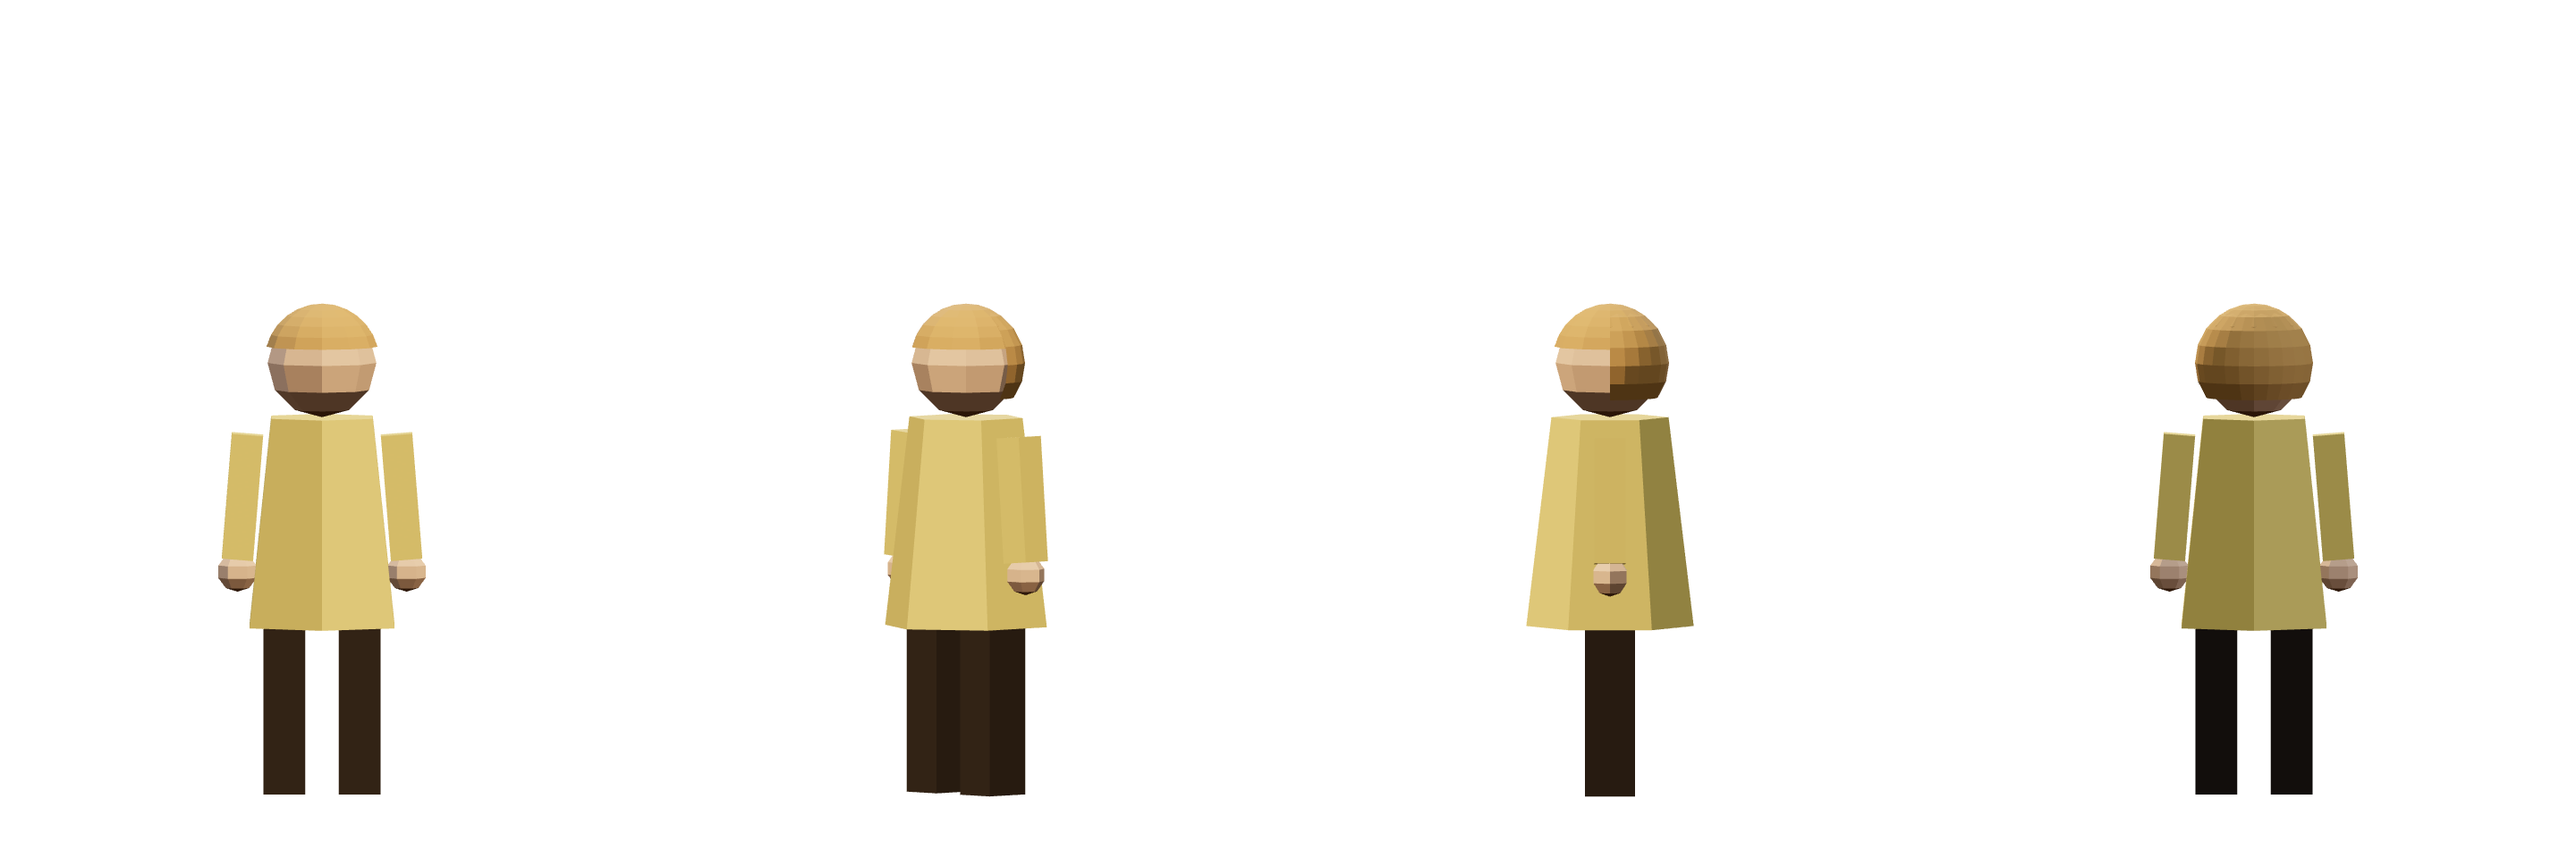
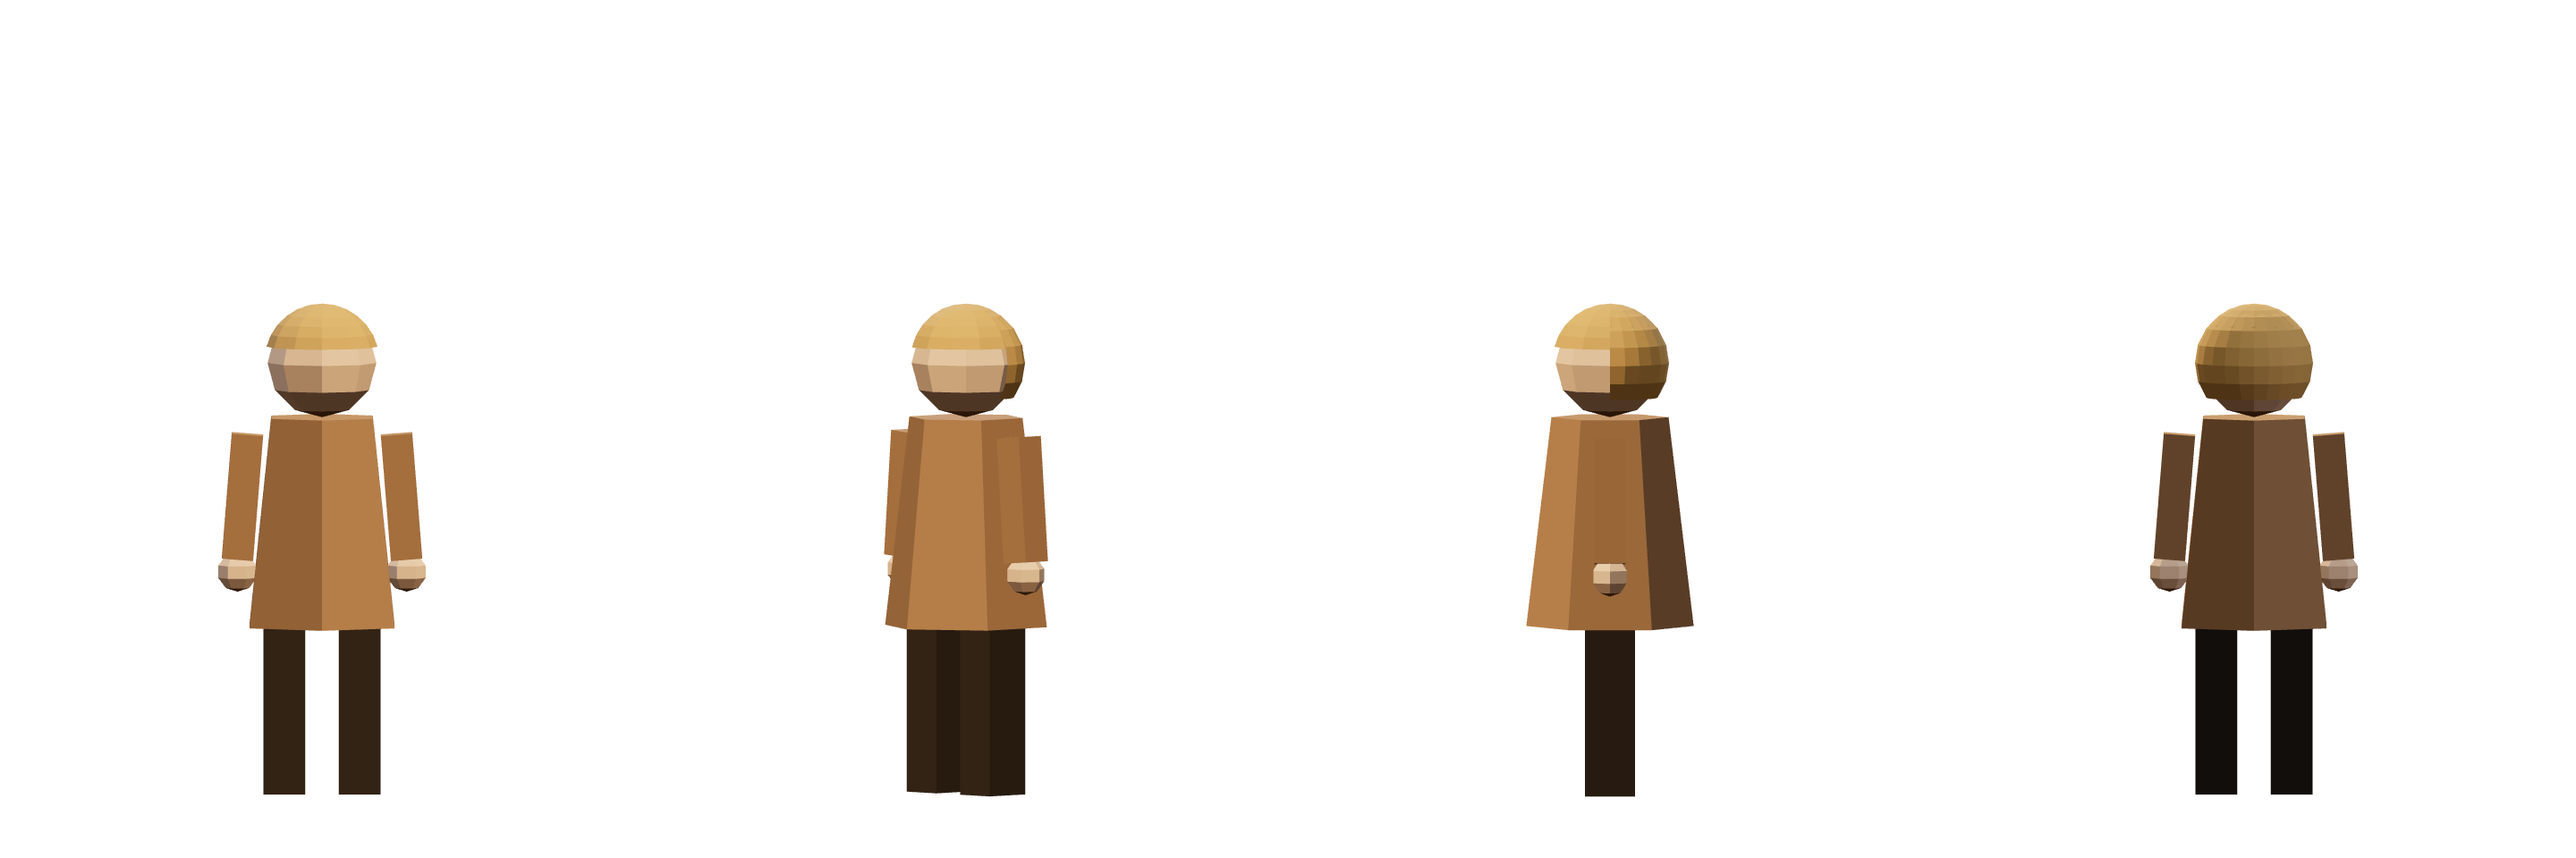
Brown villagers, straight radial straw, compact log roofs
- Plain villagers wear browns (workers keep their yellows)
- Tier-1 house roof no longer tilts; straw strands run straight down from
  the peak of every tier-1 roof, course lines unchanged
- Tier-2 roofs are compact rounded logs from ridge to eave, like the palisade
- Character sheet re-rendered

diff --git a/index.html b/index.html
@@ -540,28 +540,31 @@ const roofGrit = sh => {
 M.roofBlue.onBeforeCompile = roofGrit;
 // tier 1: straw thatch - fine strands running down the slope in ragged bundles, with darker gaps between courses
 M.thatchOld.onBeforeCompile = sh => {
-  sh.vertexShader = 'varying vec3 vSP;\n' + sh.vertexShader.replace('#include <begin_vertex>', `#include <begin_vertex>
-    vSP = (modelMatrix * vec4(transformed, 1.0)).xyz;`);
-  sh.fragmentShader = `varying vec3 vSP;
+  sh.vertexShader = 'varying vec3 vSP; varying vec3 vSO;\n' + sh.vertexShader.replace('#include <begin_vertex>', `#include <begin_vertex>
+    vSP = (modelMatrix * vec4(transformed, 1.0)).xyz; vSO = transformed;`);
+  sh.fragmentShader = `varying vec3 vSP; varying vec3 vSO;
     float sh1(vec2 p) { return fract(sin(dot(p, vec2(12.9898, 78.233))) * 43758.5453); }
   ` + sh.fragmentShader.replace('#include <color_fragment>', `#include <color_fragment>
-    float u = (vSP.x + vSP.z) * 38.0, row = vSP.y * 4.5, cf = fract(row);
+    float u = atan(vSO.z, vSO.x) * 25.46, row = vSP.y * 4.5, cf = fract(row);   // ~160 strands round the peak, running straight down each face
     float strand = sh1(vec2(floor(u), floor(row)));
     float ragged = sh1(vec2(floor(u * .25), floor(row) + 3.0)) * .25;
     diffuseColor.rgb *= (.78 + .32 * strand) * mix(.62, 1.0, smoothstep(ragged, ragged + .25, cf));`);
 };
-// tier 2: roofs of split logs laid in rounded courses, with grain along each log
-M.thatch.onBeforeCompile = sh => {
-  sh.vertexShader = 'varying vec3 vLP;\n' + sh.vertexShader.replace('#include <begin_vertex>', `#include <begin_vertex>
-    vLP = (modelMatrix * vec4(transformed, 1.0)).xyz;`);
-  sh.fragmentShader = `varying vec3 vLP;
+// tier 2: compact rounded logs laid side by side from the ridge down to the eaves (like the palisade);
+// pyramids space them by angle round the peak, gable slabs (M.logGable) by position along the ridge
+const logRoof = gable => sh => {
+  sh.vertexShader = 'varying vec3 vLO;\n' + sh.vertexShader.replace('#include <begin_vertex>', `#include <begin_vertex>
+    vLO = transformed;`);
+  sh.fragmentShader = `varying vec3 vLO;
     float lh(vec2 p) { return fract(sin(dot(p, vec2(41.3, 289.1))) * 15731.7); }
   ` + sh.fragmentShader.replace('#include <color_fragment>', `#include <color_fragment>
-    float row = vLP.y * 6.0, cf = fract(row), along = (vLP.x + vLP.z) * 2.0;
-    float rnd = sin(cf * 3.14159), grain = lh(vec2(floor(along * 8.0), floor(row)));
-    float log_ = .85 + .25 * lh(vec2(floor(row), floor(along * .6)));
-    diffuseColor.rgb *= log_ * (.45 + .6 * rnd) * (.9 + .15 * grain);`);
+    float u = ${gable ? 'vLO.x * 11.0' : 'atan(vLO.z, vLO.x) * 14.3'}, f = fract(u), id = floor(u);
+    float rnd = sqrt(max(0.0, sin(f * 3.14159)));
+    float along = ${gable ? 'vLO.z' : 'length(vLO.xz)'} * 7.0;
+    diffuseColor.rgb *= (.82 + .3 * lh(vec2(id, 1.0))) * (.38 + .7 * rnd) * (.92 + .12 * lh(vec2(id, floor(along))));`);
 };
+M.thatch.onBeforeCompile = logRoof(false); M.thatch.customProgramCacheKey = () => 'logroof:peak';   // both variants share one function source
+M.logGable = M.thatch.clone(); M.logGable.onBeforeCompile = logRoof(true); M.logGable.customProgramCacheKey = () => 'logroof:gable';
 // grit for wood (grain streaks, knots of darker colour) and rock (mottling and specks); composes with any shader the material already has
 const GRIT_NOISE = `
   float gh2(vec2 p) { return fract(sin(dot(p, vec2(127.1, 311.7))) * 43758.5453); }
@@ -867,7 +870,7 @@ function makeHouse(tier, plinth) {
     const w = box(1.25, .85, 1.05, M.mud, 0, .5, 0); w.rotation.z = .035; g.add(w);
     for (const sx of [-1, 1]) g.add(box(.09, .9, .09, M.rough, sx * .62, .5, .52));
     g.add(box(1.3, .08, .08, M.rough, 0, .92, .53));
-    const r = pyramid(1.12, 1.15, .95, M.thatchOld, 1.47); r.rotation.z = -.05; g.add(r);
+    g.add(pyramid(1.12, 1.15, .95, M.thatchOld, 1.47));
     g.add(box(.34, .58, .05, M.timber, -.22, .38, .54));
     g.add(box(.18, .14, .04, M.glow, .3, .62, .54));
     for (let n = 0; n < 4; n++) { const p = box(.05, .35 + hash(n, 3) * .15, .05, M.rough, .9, .2, -.45 + n * .3); p.rotation.x = (hash(n, 9) - .5) * .4; g.add(p); }
@@ -878,7 +881,7 @@ function makeHouse(tier, plinth) {
     g.add(box(.2, .18, .04, M.glow, .35, .52, .56));
     g.add(prism(1.4, 1.1, .7, M.daub, 0, .84, 0));
     const sl = Math.atan2(.7, .55), len = Math.hypot(.7, .55) + .2;
-    for (const sz of [-1, 1]) { const r = box(1.6, .1, len, M.thatch, 0, .84 + .35, sz * .35); r.rotation.x = sz * sl; g.add(r); }
+    for (const sz of [-1, 1]) { const r = box(1.6, .1, len, M.logGable, 0, .84 + .35, sz * .35); r.rotation.x = sz * sl; g.add(r); }
     g.add(box(.18, .45, .18, M.stone, .45, 1.45, -.25));
   } else {                     // town house: stone ground floor, plaster upper floor, blue gable roof
     g.add(box(1.4, .75, 1.2, M.stone2, 0, .375, 0));
@@ -1665,8 +1668,8 @@ function paintWall(a, b) {
 }
 
 // ---------- villagers ----------
-// colour code: villagers wear yellows, soldiers blue, raiders red
-const tunics = ['#c9a227', '#b8892f', '#d4b45a', '#a87d2a', '#c49a3c', '#9c8a3a'].map(mat);
+// colour code: plain villagers brown, workers yellows, soldiers blue, raiders red
+const tunics = ['#7a5434', '#8a6240', '#6b4a2e', '#956b44', '#7f5a3a', '#5f4229'].map(mat);   // plain villagers: homespun browns
 const hairs = ['#3a2716', '#5a3a1e', '#2a221c', '#8a5a2e', '#b8894a', '#6b6b66'].map(mat);
 const skin = mat('#d6a982'), hatM = mat('#6b5236'), legM = mat('#3a2e22');
 // solid things inside a farm plot (hut, hay, scarecrow, barn, stooks): [x, z, half-width, half-depth] from the plot centre

diff --git a/CLAUDE.md b/CLAUDE.md
@@ -20,7 +20,7 @@ The whole game is currently one self-contained file: `index.html` (~165 KB, thre
 
 ## Style rules (from Jack)
 - UI text is minimal: a few words, no explanations (hints like "Pick a spot", "Occupied", "Need [wood]5"; banners "Night 2 · 8 raiders"; log lines "<b>Cottage</b> ready"). Keep new text in this style.
-- Colour code: town = blue (flags, soldiers, tier-3 roofs), raiders = red, villagers = yellows. Roofs by tier: tier 1 straw thatch (`M.thatchOld`, strand shader), tier 2 brown split logs (`M.thatch`, rounded log-course shader), tier 3 blue tiles (`M.roofBlue`, `roofGrit`). Tier 1 buildings have no stone base and no dirt splat (they stand on grass); the stone base (`plinth`) appears from tier 2.
+- Colour code: town = blue (flags, soldiers, tier-3 roofs), raiders = red, villagers = yellows. Roofs by tier: tier 1 straw thatch (`M.thatchOld`: strands radiate from the peak by object-space angle, level course lines by world y), tier 2 compact rounded logs from ridge to eave like the palisade (`logRoof`: `M.thatch` for pyramids by angle, `M.logGable` for gable slabs by local x; each has its own `customProgramCacheKey`), tier 3 blue tiles (`M.roofBlue`, `roofGrit`). Tier 1 buildings have no stone base and no dirt splat (they stand on grass); the stone base (`plinth`) appears from tier 2.
 - Medieval look over clean/modern: crooked timbers, daub, thatch, small shuttered windows.
 
 ## Recent model notes
@@ -80,7 +80,7 @@ Roof colours: tier 3 roofs use `M.roofBlue` (blue is the town's colour, red the 
 - **Instancing**: trees (instanceColor), clutter (320 tufts, pebbles, bushes) hidden on occupied/path cells. Lone trees within 12 m of the castle, forest 12–18 m.
 - **Lights**: pool of 4 PointLights shared by night lamps; gradient sky dome.
 - **Sprites**: HP/progress bars (`fg.center.x=.5/f` trick); floating SVG icon pop-ups for income (`floatRes`).
-- **People**: `makePerson` → arms on pivots (angle 0 = hanging, −1.57 = forward, −3 = overhead). Tools come from `makeTool(kind)` and are parented to the hand (`arms[1]`; bow on `arms[0]`); `giveTool(v,kind)`. Task poses are all one-handed (the single-segment arms can't both reach one handle; the free arm steadies): axe overhead chop, pick overhead strike, hoe bent low, hammer; log on right shoulder with the hand resting on it, stone held at chest in both hands. Axe and hoe heads sit on the local −z side so they lead the swing / face the soil. Bow is a gentle C (arc segments). Colour code: villagers wear yellows (`tunics`), soldiers blue (`guardTunic`), every raider the same red (`raiderRed`); the town's flags (`M.flag`) are blue. Everyone has short hair (`makeHair`, `hairs` palette); some plain villagers add a soft cloth cap. Headgear via `makeHelm`: villager archers on posts a bright steel round helm with a blue band and nose guard (`soldier`; `kettle` also exists), raider iron dome with nose and cheek guards, captain adds a red crest, raider archer a dark rounded hood. Outfits via `OUTFIT`/`dress()`: lumberjack yellow/brown checked shirt (`plaidMat` canvas texture) + green wool cap with feather, mason khaki + grey cloth bonnet + curved canvas apron with a leather waist band, farmer straw yellow + straw hat, builder amber smock + brown felt hat + tool belt. Renders of all of them: `design/characters/`.
+- **People**: `makePerson` → arms on pivots (angle 0 = hanging, −1.57 = forward, −3 = overhead). Tools come from `makeTool(kind)` and are parented to the hand (`arms[1]`; bow on `arms[0]`); `giveTool(v,kind)`. Task poses are all one-handed (the single-segment arms can't both reach one handle; the free arm steadies): axe overhead chop, pick overhead strike, hoe bent low, hammer; log on right shoulder with the hand resting on it, stone held at chest in both hands. Axe and hoe heads sit on the local −z side so they lead the swing / face the soil. Bow is a gentle C (arc segments). Colour code: plain villagers wear browns (`tunics`), workers yellows (job outfits), soldiers blue (`guardTunic`), every raider the same red (`raiderRed`); the town's flags (`M.flag`) are blue. Everyone has short hair (`makeHair`, `hairs` palette); some plain villagers add a soft cloth cap. Headgear via `makeHelm`: villager archers on posts a bright steel round helm with a blue band and nose guard (`soldier`; `kettle` also exists), raider iron dome with nose and cheek guards, captain adds a red crest, raider archer a dark rounded hood. Outfits via `OUTFIT`/`dress()`: lumberjack yellow/brown checked shirt (`plaidMat` canvas texture) + green wool cap with feather, mason khaki + grey cloth bonnet + curved canvas apron with a leather waist band, farmer straw yellow + straw hat, builder amber smock + brown felt hat + tool belt. Renders of all of them: `design/characters/`.
 - **Ambient**: bird flocks every 45–95 s (scale 0.55, half circle), waving flags.
 
 ## Audio

diff --git a/design/characters/README.md b/design/characters/README.md
@@ -6,11 +6,11 @@ Rendered straight from the game's models (`makePerson`, `dress`, `makeTool` in `
 - Every image uses the same frame, so sizes compare directly (units are drawn at 78% since the last update; the captain is 1.35x a raider).
 - One strip per character, four views left to right: front, three-quarter, side, back (720 x 960 px each).
 
-Colour code: villagers wear yellows, soldiers blue, raiders red.
+Colour code: plain villagers brown, workers yellows, soldiers blue, raiders red.
 
 | File | Character |
 |---|---|
-| `villager.png` / `villager2.png` | Villager with a soft cloth cap, and with just hair (shirt shade and hair colour vary in game) |
+| `villager.png` / `villager2.png` | Villager in a brown shirt, with a soft cloth cap and with just hair (shade and hair colour vary in game) |
 | `farmer.png` | Farmer: straw-yellow shirt, straw hat, hoe |
 | `lumberjack.png` | Lumberjack: yellow and brown checked shirt, green wool cap with feather, axe |
 | `mason.png` | Mason: khaki shirt, grey cloth bonnet, canvas apron with a leather waist band, pick |
